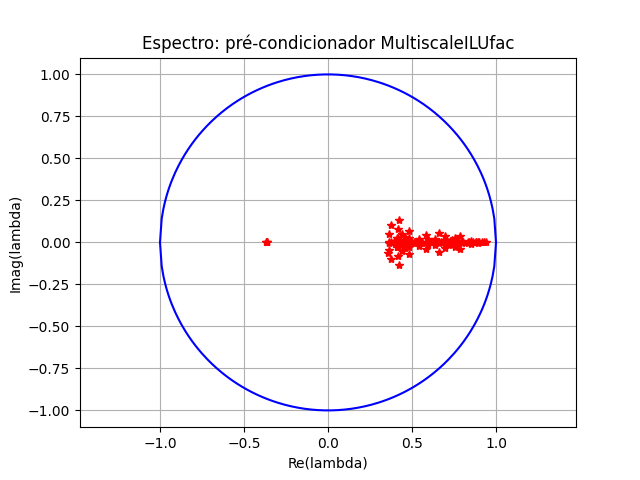
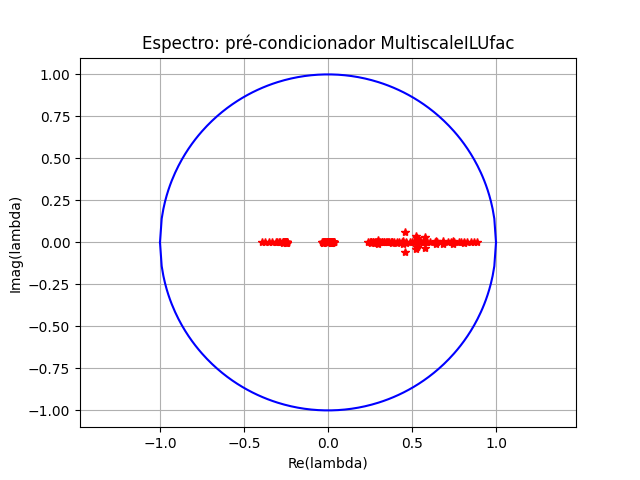
Changed ILU(0)

Changed region(s): [[0.5625, 0.4375, 0.7812, 0.5625], [0.4062, 0.4688, 0.4688, 0.5312], [0.5, 0.5, 0.5312, 0.5312]]

diff --git a/Espectro/teste_ESPECTRO.py b/Espectro/teste_ESPECTRO.py
@@ -3,12 +3,13 @@ import scipy.sparse as sp
 import scipy.sparse.linalg as spla
 import matplotlib.pyplot as plt
 from MatrixSpectralAnalysis import MatrixSpectralAnalysis
+import ilupp
 import scipy.io as sio
 import os, sys
 
 problems = ['Esdras', 'Barreira', 'Joao', 'SPE10_0', 'SPE10_85']
 save_path = './Projeto-IC/Espectro/results'
-problem = "Barreira"
+problem = "Esdras"
 
 for x in problems:
     try:
@@ -16,7 +17,6 @@ for x in problems:
         os.mkdir(f'{save_path}/{x}/Spectre')
         os.mkdir(f'{save_path}/{x}/Residues')
     except:
-
         continue
 
 if problem == 'Esdras':
@@ -25,9 +25,9 @@ if problem == 'Esdras':
     # Caso 2
     # data = sio.loadmat("Projeto-IC/arquivos/Problema_homogeneo_buck_40x40.mat")
 
-    A = sp.csc_matrix(np.asarray(data["T"]))
-    OP = sp.csc_matrix(np.asarray( data['OP']))
-    OR = sp.csc_matrix(np.asarray(data['OR']))
+    A = sp.csc_matrix(np.asarray(data["T"], dtype=np.float64))
+    OP = sp.csc_matrix(np.asarray( data['OP'], dtype=np.float64))
+    OR = sp.csc_matrix(np.asarray(data['OR'], dtype=np.float64))
 
     b = np.asarray(data["F"]).ravel
 
@@ -75,18 +75,30 @@ else:
     print('problema não reconhecido.')
     sys.exit()
 
+# x = ilupp.ILU0Preconditioner(A)
+# ce = np.array(A.sum(axis=1)).flatten()
+# residuo = []
+# def _my_callback(xk):
+#     residuo.append(np.linalg.norm(A*xk - b))
+# y = spla.gmres(A, b, M=x, rtol=1e-5, callback=_my_callback, maxiter=20)
+# print(y)
+# print(residuo)
+
+
 print(A.shape[0])
 sa = MatrixSpectralAnalysis(A, OP, OR, b)
-sa.PreconditionedMatrix_Analysis(save_path, problem)
-methods = ['Jacobi', 'Seidel', 'ILUfac', 'Multiscale', 'MultiscaleILUfac', 'MultiscaleJacobi', 'MultiscaleSeidel']
+# sa.PreconditionedMatrix_Analysis(save_path, problem)
+# methods = ['Jacobi', 'Seidel', 'ILUfac', 'Multiscale', 'MultiscaleILUfac', 'MultiscaleJacobi', 'MultiscaleSeidel']
 # methods = ['MultiscaleILUfac', 'MultiscaleJacobi', 'MultiscaleSeidel']
+methods = ['MultiscaleILUfac']
 for method in methods:
     print(method)
-    try:
-        av_error = sa.GetSpectre(method)
-    except Exception as error:
-        print(f'{method} não pode ser realizado devido a: {error}\n')
-        continue
+    # try:
+    #     av_error = sa.GetSpectre(method)
+    # except Exception as error:
+    #     print(f'{method} não pode ser realizado devido a: {error}\n')
+    #     continue
+    av_error = sa.GetSpectre(method)
 
     print(len(av_error))
     print(f'Max: {max(abs(av_error))}\nMin: {min(abs(av_error))}\n')

diff --git a/Espectro/SpectralAnalysisMethods.py b/Espectro/SpectralAnalysisMethods.py
@@ -4,6 +4,7 @@ import scipy.linalg as la
 import scipy.sparse as sp
 import scipy.sparse.linalg as spla
 import matplotlib.pyplot as plt
+import ilupp
 import time
 
 class SpectralAnalysisMethods:
@@ -128,11 +129,21 @@ class SpectralAnalysisMethods:
         # ----- MATRIZ A COM SUAVIZADOR ILU(0) -----
         nnod, upperA, lowerA, diagA = args
 
-        ilu = spla.spilu(self._A, fill_factor=1)
+        # ilu = spla.spilu(self._A, fill_factor=1)
+        # def apply_G(x):
+        #     Ax = self._A @ x
+        #     precond_step = ilu.solve(Ax.astype(np.float64))
+        #     return x - precond_step
+
+        ilu = ilupp.ILU0Preconditioner(self._A)
         def apply_G(x):
             Ax = self._A @ x
-            precond_step = ilu.solve(Ax.astype(np.float64))
+            # aplicar M^{-1}Ax com ilupp
+            precond_step = Ax.copy()
+            ilu.apply(precond_step)
+
             return x - precond_step
+
         # error_operator = np.eye(nnod) - precond_system
         error_operator = spla.LinearOperator((self._A.shape[0], self._A.shape[0]), matvec=apply_G)
         # av_error_operator = la.eigvals(error_operator)          # espectro da matriz de iteração
@@ -240,9 +251,11 @@ class SpectralAnalysisMethods:
         # # ----- MATRIZ A pré-condicionador Multiescala + SUAVIZADOR ILU(0) -----
         nnod, upperA, lowerA, diagA = args
 
-        ilu = spla.spilu(self._A, fill_factor=1)
+        ilu = ilupp.ILU0Preconditioner(self._A)
         def precond_ilu(x): # Aproximação de A-1 ilu
-            return ilu.solve(x.astype(np.float64))
+            val = x.copy()
+            ilu.apply(val)
+            return val
 
         RAP = self._OR @ self._A @ self._OP
         solver = spla.factorized(RAP)
